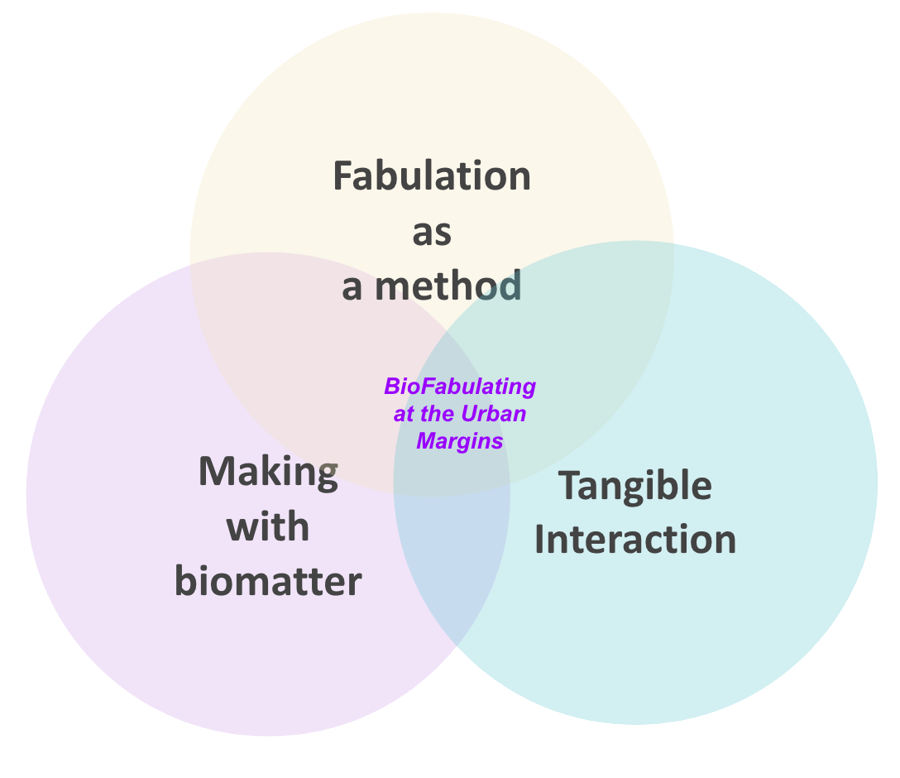
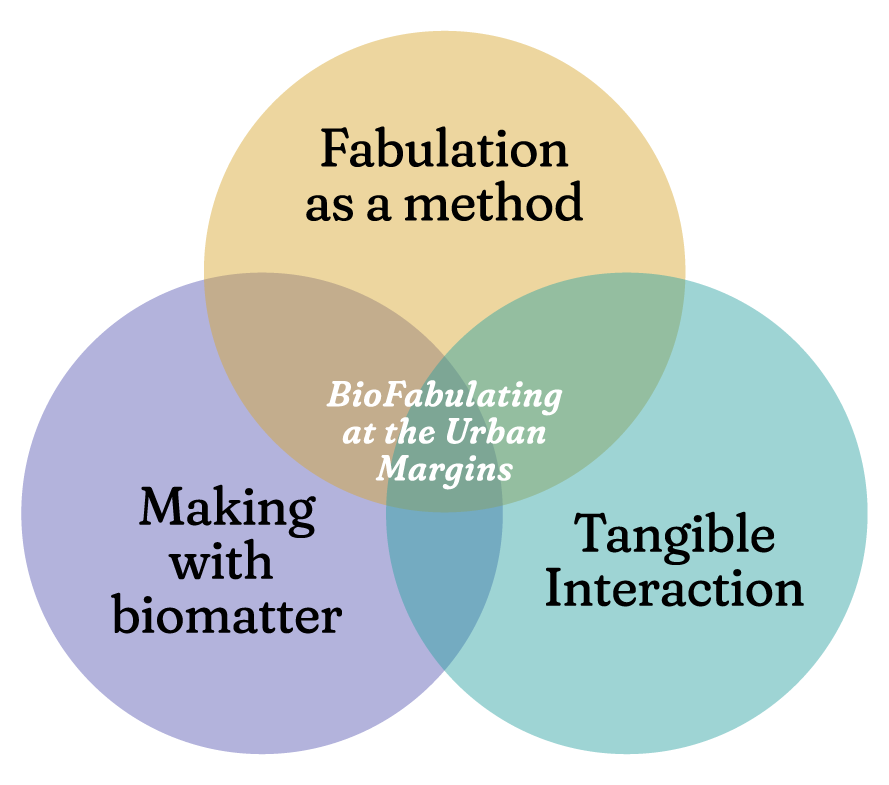
Novo visual V7

diff --git a/index.html b/index.html
@@ -8,7 +8,7 @@
   <link rel="preconnect" href="https://fonts.googleapis.com">
   <link rel="preconnect" href="https://fonts.gstatic.com" crossorigin>
   <link href="https://fonts.googleapis.com/css2?family=Fraunces:opsz,wght@9..144,400;9..144,600;9..144,900&family=Inter:wght@400;500;600&display=swap" rel="stylesheet">
-  <link rel="stylesheet" href="style.css?v=6">
+  <link rel="stylesheet" href="style.css?v=7">
 </head>
 <body>
 
@@ -40,7 +40,7 @@
           <p class="note">No prior knowledge of biomaterials is required.</p>
         </div>
         <figure class="centered">
-          <img class="cutout" src="images/pillars.png" alt="Venn diagram: fabulation as a method, making with biomatter, and tangible interaction">
+          <img class="cutout" src="images/pillars.png?v=7" alt="Venn diagram: fabulation as a method, making with biomatter, and tangible interaction">
           <figcaption>The studio explores the convergence of three pillars.</figcaption>
         </figure>
       </div>
@@ -160,7 +160,7 @@
           <p>Assistant Professor at the University of Maryland, Baltimore County, directing the Entangled Ecologies Lab. Combining biodesign, material science, and human-computer interaction, she develops novel biobased and biodegradable materials that integrate with digital technologies to create ecologically sustainable bio-digital interfaces.</p></div>
         </article>
         <article class="person">
-          <div><h3><a href="https://iti.larsys.pt/" target="_blank" rel="noopener">Mariana Simões</a></h3>
+          <div><h3><a href="https://iti.larsys.pt/member/mariana-simoes/" target="_blank" rel="noopener">Mariana Simões</a></h3>
           <p>Architect, PhD candidate in Digital Media and researcher at ITI/LARSyS, Instituto Superior Técnico, Universidade de Lisboa. Her research explores how digital storytelling mediates material-landscapes relations through caring, affective and other-than-human perspectives.</p></div>
         </article>
         <article class="person">

diff --git a/style.css b/style.css
@@ -2,7 +2,7 @@
 :root {
   --bg: #EBFFF6; --paper: #f8fffb; --ink: #291528; --muted: #55505a;
   --sea: #2F5A3C; --sea-light: #CDEFDF; --line: #cde3d8; --link: #1F5FD1;
-  --grad-top: #303E14; --grad-mid: #2E6B57; --grad-bottom: #256EFF;
+  --grad-top: #303E14; --grad-mid: #2B5E5A; --grad-bottom: #1D4FB8;
   --radius: 16px;        /* cantos arredondados das imagens */
   --serif: "Fraunces", Georgia, serif; --sans: "Inter", system-ui, sans-serif;
 }
